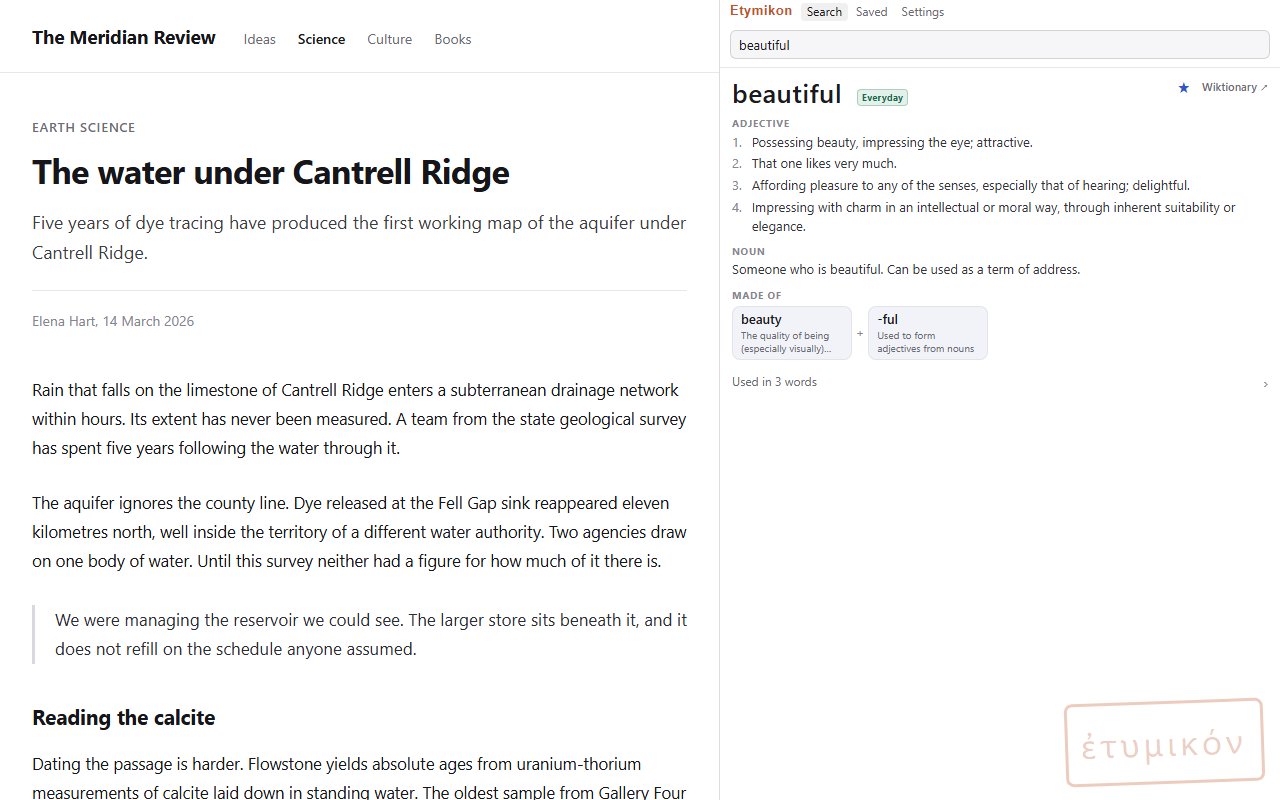
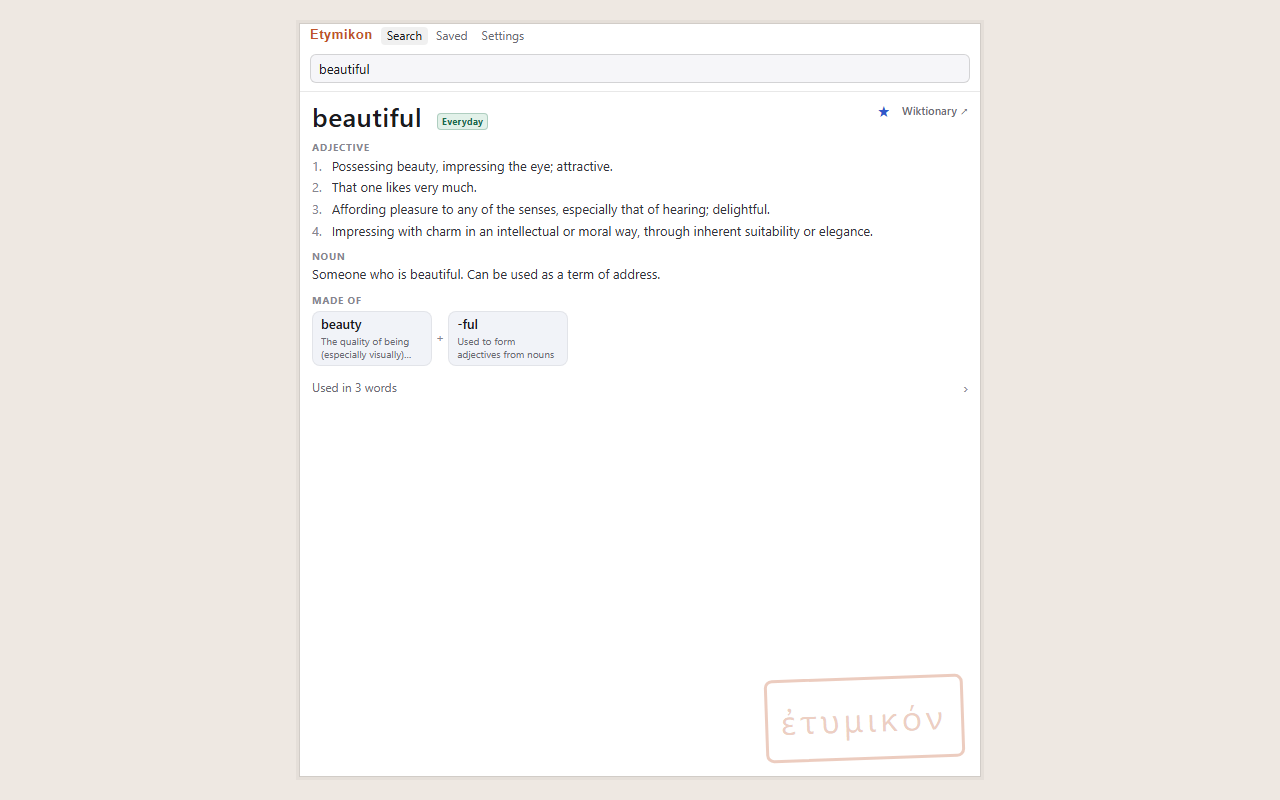
Mount the three side-panel shots alone
Shots 4, 5 and 6 docked a 560px panel beside a staged magazine article.
The panel was 44% of the frame and the article took the rest, so the
shots whose subject is the sidebar spent half their pixels on filler.
They now capture the panel alone, 680 by 752, centred on a flat warm
backdrop and framed as a card by a 1px border under a 3px halo, all
plain PIL rectangles with no alpha. The mechanism is Okpyeon's solo
mount; the numbers are ours.

680 came from trial captures, not from Okpyeon's 640. It is the
narrowest width at which all three views settle: the search view's four
beautiful definitions each hold one line from 600 up, the saved list's
longest definition stops wrapping into a two-line block at 680, and the
settings view is 456px tall at every width. Past 680 nothing improves
until 760, which only adds trailing space to every line. The mount is
1:1. Widening does not enlarge the type and a device scale above 1
would, but past about 1.09 the settings view's CSS height falls under
SEAL_ROOM and the seal goes out.

The backdrop (238, 232, 226) is a warm grey at the same step below white
that lets a white panel read as a card, held at r-g = 6 and g-b = 6.
That is the hue family of the icon cream and the promo ground, and it is
under half the chroma assert_seal counts.

assert_seal now takes the panel's corner instead of assuming the canvas
corner. The box offsets are unchanged, because they come from the seal's
[…]

diff --git a/pipeline/screenshots/shots-page.html b/pipeline/screenshots/shots-page.html
@@ -17,7 +17,6 @@
   Query parameters:
     scene=NAME  which scene to drive (see the switch at the bottom)
     place=F     fraction of the viewport the selected word is scrolled to
-    scroll=N    absolute scroll offset, for the scene that selects nothing
     w=N         popup width handed to the product's own resizePanel
     bottom=N    gap to leave under the popup when sizing it to its content
 
@@ -314,10 +313,6 @@ async function openUsedIn() {
   await sleep(500);
 }
 
-if (scene === "plain") {
-  window.scrollTo(0, Number(params.get("scroll") || 0));
-  await sleep(60);
-}
 if (scene === "breakdown") await show("s-subterranean");
 if (scene === "origin") await show("s-territory");
 if (scene === "root") {

diff --git a/pipeline/make_screenshots.py b/pipeline/make_screenshots.py
@@ -33,8 +33,10 @@ This script then:
   3. captures each scene in its own tab, with the viewport size set BEFORE
      navigation (content.js hides the popup on resize, so a late resize would
      empty the shot),
-  4. composites the side-panel shots beside a narrower page shot, with the 1px
-     separator Chrome draws between a page and its side panel,
+  4. mounts the side-panel shots alone, centred on a flat warm backdrop (the
+     panel is those shots' whole subject; an article beside it only shrank
+     it), keeping the page-beside-panel composite path for any future shot
+     that needs it,
   5. asserts, per shot, both what the DOM says (the popup is up, the SPEC's
      own label wording rendered, the settings view mounted) and what the pixels
      say (exact size, RGB, no alpha, the corner seal actually visible where it
@@ -75,14 +77,45 @@ PAGE_W, PANEL_W = 919, 360
 SEPARATOR = (218, 220, 224)
 SEPARATOR_DARK = (60, 64, 67)
 
+# A "solo" shot mounts the panel alone: captured 680 wide and canvas-height
+# minus the margins tall, centred on a flat warm backdrop.
+#
+# 680 is the narrowest width at which all three panel views reach their settled
+# layout. The search view's four `beautiful` definitions each fit one line from
+# 600 up; the saved list's longest definition (memory) stops wrapping into a
+# two-line block at 680; the settings view is 456px tall at every width. Past
+# 680 nothing improves until 760, which only trims the saved list further while
+# adding trailing space to every line. Widening does not enlarge the type, and
+# capturing narrower at a device scale above 1 would: at any scale past about
+# 1.09 the settings view's CSS height drops under SEAL_ROOM and the seal goes
+# out, so the mount stays 1:1.
+#
+# The backdrop is a warm grey, the same step below white that lets the white
+# panel read as a card, held at r-g = 6 and g-b = 6. That is the hue family of
+# the icon cream (#FFF7F0) and the promo ground (251, 247, 244), and it is
+# deliberately under half the chroma assert_seal looks for, so the ground can
+# never be counted as seal ink. The border is rgba(0, 0, 0, 0.12) flattened
+# onto the backdrop and the halo is a 3px band of fainter warm grey standing in
+# for a shadow; both are pasted as solid rectangles, so the whole mount is
+# plain PIL with no alpha.
+SOLO_PANEL_W = 680
+SOLO_MARGIN = 24
+SOLO_PANEL_H = SHOT_H - 2 * SOLO_MARGIN
+SOLO_BACKDROP = (238, 232, 226)
+SOLO_BORDER = (209, 204, 199)
+SOLO_HALO = (229, 223, 217)
+# 1px border plus a 3px halo around it.
+SOLO_RING = 4
+
 
 # --------------------------------------------------------------------------
 # The scenes.
 #
-# Every shot is either a whole-viewport page capture ("page") or a page capture
-# docked beside a side-panel capture ("composite"). `page` and `panel` are query
-# strings for the staging pages; `checks` are JS expressions that must all
-# evaluate true after the page signals ready, before anything is captured.
+# Every shot is a whole-viewport page capture ("page"), a side-panel capture
+# mounted alone on the warm backdrop ("solo"), or a page capture docked beside
+# a side-panel capture ("composite", currently unused). `page` and `panel` are
+# query strings for the staging pages; `checks` are JS expressions that must
+# all evaluate true after the page signals ready, before anything is captured.
 # --------------------------------------------------------------------------
 
 # Shorthands for the checks, which all run against the content script's own
@@ -310,9 +343,8 @@ SHOTS = [
     {
         "n": 4,
         "name": "4-sidebar-search.png",
-        "kind": "composite",
-        "panel_w": 560,
-        "page": {"scene": "plain", "scroll": 0},
+        "kind": "solo",
+        # Solo mount: the panel is the subject, so no article shares the frame.
         # The sidebar answering a typed word. The search view renders through
         # content.js, so its nodes live in the embedded panel's shadow root and
         # only its own query hook sees them; the seal is the panel's own DOM.
@@ -328,9 +360,8 @@ SHOTS = [
     {
         "n": 5,
         "name": "5-saved-words.png",
-        "kind": "composite",
-        "panel_w": 560,
-        "page": {"scene": "plain", "scroll": 430},
+        "kind": "solo",
+        # Solo mount: the panel is the subject, so no article shares the frame.
         # A library with three folders, two of them collapsed. Collapsing is
         # also what keeps the rendered rows down to what the seal's room rule
         # tolerates, and it is what a reader with three folders actually does.
@@ -350,9 +381,13 @@ SHOTS = [
     {
         "n": 6,
         "name": "6-settings.png",
-        "kind": "composite",
-        "panel_w": 560,
-        "page": {"scene": "plain", "scroll": 200},
+        "kind": "solo",
+        # Solo mount at 1:1, like the other two. This is the tallest of the
+        # three views, and it still ends 456px down, which leaves 296px of
+        # clear space in the 752px mount against the 230 the product's own room
+        # rule wants. So the seal stays, and there is no need for the trick of
+        # capturing a taller viewport and rasterizing it down to fit.
+        #
         # The Anki fields, rendered from the worker's own token lists: nothing
         # in this view names a field, so the shot proves the schema, not a
         # hand-written form.
@@ -433,8 +468,9 @@ def run_checks(tab, checks, shot_name):
             raise AssertionError(f"{shot_name}: check failed -- {label}")
 
 
-def capture(chrome, port, page, params, width, checks=(), dark=False):
-    tab = Tab(chrome, width, SHOT_H, dark)
+def capture(chrome, port, page, params, width, checks=(), dark=False,
+            height=SHOT_H):
+    tab = Tab(chrome, width, height, dark)
     try:
         tab.navigate(stage_url(port, page, params))
         tab.wait_ready()
@@ -442,8 +478,8 @@ def capture(chrome, port, page, params, width, checks=(), dark=False):
         image = tab.screenshot()
     finally:
         tab.close()
-    if image.size != (width, SHOT_H):
-        raise AssertionError(f"{page}: captured {image.size}, wanted {(width, SHOT_H)}")
+    if image.size != (width, height):
+        raise AssertionError(f"{page}: captured {image.size}, wanted {(width, height)}")
     return image
 
 
@@ -457,6 +493,21 @@ def compose(page_image, panel_image, dark=False):
     return out
 
 
+def compose_solo(panel_image):
+    """Centre the panel on the warm backdrop, framed as a card: a 1px border
+    under a 3px halo, both pasted as solid rectangles so the whole mount stays
+    plain PIL."""
+    out = Image.new("RGB", (SHOT_W, SHOT_H), SOLO_BACKDROP)
+    x = (SHOT_W - panel_image.width) // 2
+    y = (SHOT_H - panel_image.height) // 2
+    for inset, color in ((SOLO_RING, SOLO_HALO), (1, SOLO_BORDER)):
+        ring = Image.new("RGB", (panel_image.width + 2 * inset,
+                                 panel_image.height + 2 * inset), color)
+        out.paste(ring, (x - inset, y - inset))
+    out.paste(panel_image, (x, y))
+    return out
+
+
 def assert_image(image, name):
     if image.size != (SHOT_W, SHOT_H):
         raise AssertionError(f"{name}: {image.size}, wanted {(SHOT_W, SHOT_H)}")
@@ -466,19 +517,29 @@ def assert_image(image, name):
         raise AssertionError(f"{name}: carries a transparency key")
 
 
-def assert_seal(image, name):
+def assert_seal(image, name, corner=(SHOT_W, SHOT_H)):
     """The ἐτυμικόν seal sits in the panel's lower-right corner when the view
-    leaves room for it. It is stamped in the icon's terracotta, and the panel
-    around it is grey text on a near-neutral ground, so a warm cast in that box
-    is proof it rendered. The predicate holds in both schemes: the light tint
-    lands near (236, 204, 191) and the dark one near (96, 63, 54), and both are
-    unmistakably red-over-green-over-blue."""
-    box = image.crop((SHOT_W - 300, SHOT_H - 140, SHOT_W - 4, SHOT_H - 4))
+    leaves room for it. `corner` is that corner on the canvas: the composite
+    dock puts it at the canvas edge, a solo mount moves it in by the margins.
+    The box offsets come from the seal's own anchors (right: 16px, bottom:
+    16px) and its stamp (about 204 by 91 at a -2 degree tilt), which do not
+    move with the panel, so a 296 by 136 box inset 4px from the corner holds
+    the whole stamp and nothing outside the panel.
+
+    The seal is stamped in the icon's terracotta and the panel around it is
+    grey text on white, so a warm cast in that box is proof it rendered. The
+    predicate holds in both schemes: the light tint lands near (236, 204, 191)
+    and the dark one near (96, 63, 54). Both clear r > g + 20 and r > b + 30 by
+    at least 12, while the solo backdrop (238, 232, 226), its halo and its
+    border all fail those two clauses by at least 14, so the warm ground the
+    mount sits on can never be counted as ink."""
+    right, bottom = corner
+    box = image.crop((right - 300, bottom - 140, right - 4, bottom - 4))
     pixels = box.tobytes()
     clay = 0
     for i in range(0, len(pixels), 3):
         r, g, b = pixels[i], pixels[i + 1], pixels[i + 2]
-        if r > g + 12 and g > b + 5 and r > b + 25 and r < 250:
+        if r > g + 20 and g > b + 5 and r > b + 30 and r < 250:
             clay += 1
     if clay < 400:
         raise AssertionError(f"{name}: seal not visible ({clay} terracotta pixels)")
@@ -486,21 +547,30 @@ def assert_seal(image, name):
 
 def build(shot, chrome, port, work_dir):
     dark = shot.get("dark", False)
-    panel_w = shot.get("panel_w", PANEL_W)
-    page_width = SHOT_W if shot["kind"] == "page" else SHOT_W - panel_w - 1
-    page_checks = shot["checks"] if shot["kind"] == "page" else ()
-    page_image = capture(chrome, port, "shots-page.html", shot["page"],
-                         page_width, page_checks, dark)
-    if shot["kind"] == "page":
-        image = page_image
-    else:
+    seal_corner = (SHOT_W, SHOT_H)
+    if shot["kind"] == "solo":
         panel_image = capture(chrome, port, "shots-panel.html", shot["panel"],
-                              panel_w, shot["checks"], dark)
-        image = compose(page_image, panel_image, dark)
+                              SOLO_PANEL_W, shot["checks"], dark,
+                              height=SOLO_PANEL_H)
+        image = compose_solo(panel_image)
+        seal_corner = ((SHOT_W + panel_image.width) // 2,
+                       (SHOT_H - panel_image.height) // 2 + panel_image.height)
+    else:
+        panel_w = shot.get("panel_w", PANEL_W)
+        page_width = SHOT_W if shot["kind"] == "page" else SHOT_W - panel_w - 1
+        page_checks = shot["checks"] if shot["kind"] == "page" else ()
+        page_image = capture(chrome, port, "shots-page.html", shot["page"],
+                             page_width, page_checks, dark)
+        if shot["kind"] == "page":
+            image = page_image
+        else:
+            panel_image = capture(chrome, port, "shots-panel.html", shot["panel"],
+                                  panel_w, shot["checks"], dark)
+            image = compose(page_image, panel_image, dark)
 
     assert_image(image, shot["name"])
     if shot.get("pixels") == "seal":
-        assert_seal(image, shot["name"])
+        assert_seal(image, shot["name"], seal_corner)
 
     out = work_dir / shot["name"]
     image.save(out, "PNG", optimize=True)

diff --git a/pipeline/README.md b/pipeline/README.md
@@ -1433,21 +1433,37 @@ side panel. Both load the REAL extension code against the REAL
 product's own rendering and only the message transport is local. Each staging
 page documents its query parameters in the comment at the top of the file.
 
-A composite shot captures the page narrower and docks a panel capture beside
-it, with the 1px separator Chrome draws between them: 919 + 1 + 360 = 1280.
-Nothing lands in `screenshots/` until every shot has passed every check, so a
-failed run leaves the committed set exactly as it was.
+There are three shot kinds. A `page` shot is the whole viewport, popup and all.
+A `solo` shot captures the side panel alone, 680 by 752, and mounts it centred
+on a flat warm backdrop, framed as a card by a 1px border under a 3px halo:
+the panel is the whole subject of those shots, and an article beside it only
+shrank it. A `composite` shot captures the page narrower and docks a panel
+capture beside it, with the 1px separator Chrome draws between them:
+919 + 1 + 360 = 1280. Nothing lands in `screenshots/` until every shot has
+passed every check, so a failed run leaves the committed set exactly as it was.
+
+The solo width came from trial captures rather than from Okpyeon, whose own
+solo mount is 640 on a cool grey. 680 is the narrowest width at which all three
+panel views reach their settled layout: the search view's four `beautiful`
+definitions each hold one line, the saved list's longest definition stops
+wrapping into a two-line block, and the settings view is 456px tall at every
+width. The mount stays 1:1. Widening does not enlarge the type, and capturing
+narrower at a device scale above 1 would, but past about 1.09 the settings
+view's CSS height drops under the panel's own `SEAL_ROOM` and the corner seal
+goes out. At 680 by 752 the clear space under the content is 365px for search,
+345px for saved and 296px for settings, against the 230 the room rule wants,
+so all three keep the seal.
 
 Adding a scene. A scene is one entry in the `SHOTS` list:
 
     {
       "n": 9,
       "name": "9-something.png",
-      "kind": "page",              # or "composite" for page plus side panel
-      "page": {"scene": "origin", "w": 420},
-      "panel": {"view": "saved"},  # composite only
+      "kind": "page",              # or "solo", or "composite"
+      "page": {"scene": "origin", "w": 420},   # page and composite
+      "panel": {"view": "saved"},  # solo and composite
       "dark": True,                # optional, drives prefers-color-scheme
-      "panel_w": 360,              # optional, overrides the 919/360 split
+      "panel_w": 360,              # composite only, overrides 919/360
       "pixels": "seal",            # optional, adds the terracotta pixel test
       "checks": [POPUP_UP, head_is("territory"), IN_FRAME],
     }
@@ -1472,7 +1488,10 @@ What is asserted, per shot:
 - The image itself: exactly 1280x800, mode RGB, no transparency key.
 - `"pixels": "seal"` adds a count of terracotta pixels in the panel's
   lower-right corner box, which is how a shot whose point is the corner seal
-  proves the seal rendered. The predicate holds in both schemes.
+  proves the seal rendered. The box follows the panel's corner rather than the
+  canvas corner, so it holds for a solo mount as well as a composite dock. The
+  predicate holds in both schemes, and it rejects the solo backdrop, its halo
+  and its border by a wider margin than it accepts the seal's own ink.
 
 ## Other tooling in this directory
 
